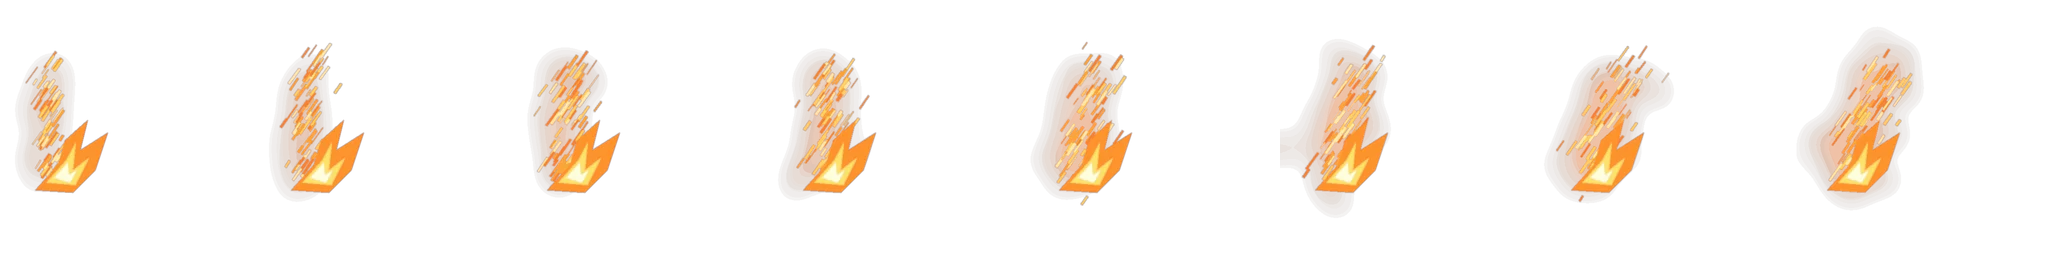
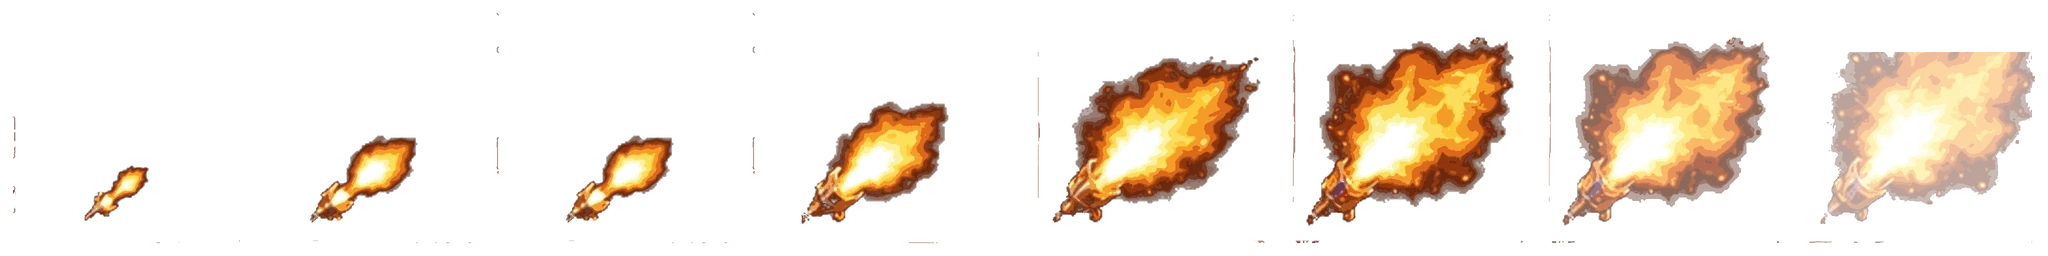
R67h: ملفات المدفع النهائية من المصمم (خلفية شفافة حقيقية) بدل النسخة المؤقتة؛ تنظيف حدود الشيتات، اللهب والانفجار والألعاب النارية بدمج screen، وضبط مكان الصورة في الإطار
Claude-Session: https://claude.ai/code/session_013Dw5YXk6gdhBXsie6KboY7

diff --git a/public/sw.js b/public/sw.js
@@ -1,10 +1,10 @@
 /* لعبك — عامل الخدمة: تحديث الشبكة أولاً، واللعب الجماعي يحتاج اتصال. */
 const CACHE_PREFIX = 'la3bak-shell-';
-const VER = CACHE_PREFIX + 'r67d';
+const VER = CACHE_PREFIX + 'r67h';
 const LEGACY_SHELL_CACHES = ['la3bak-rank-vip-1'];
 // Deduplicate exact URLs; keep the existing network-first/offline policy.
 // The unused legacy codewords image is not precached; the shipped R45 cover stays.
-const SHELL = [...new Set(['/root-navigation-r50.js?v=back-nav-r51', '/preview/assets/game-minaboli-3d-r49.webp', '/preview/assets/game-codewords-3d-r45.webp', '/emerald-r44.css?v=r58q', '/unified/emerald-room-r44.css?v=r58p', '/unified/gift-compact-r38.css?v=r58p','/unified/room-owner-start-r33.css?v=r58q','/social-room-tools-r33.css?v=r58p','/community-access-r37.js','/unified/notifications.js?v=r66a','/social-room-tools-r33.js?v=r58p','/room-start-r33.js','/social-gift-context-r33.js','/gift3d-variants-r33.js','/unified/pk-reference-r32.css?v=r58p','/social-challenge.js?v=r57','/social-challenge.css?v=r58p','/room-photo-r31.js?v=room-photo-r31','/unified/room-photo-r31.css?v=r58q','/social-directory-r30.js?v=r63a','/unified/room-directory-r30.css?v=r58q','/unified/room-style-r27.css?v=r58p', '/unified/reference-room-r28.css?v=r58q', '/unified/reference-panels-r28.css?v=r58q', '/unified/reference-gifts-r28.css?v=r58q', '/unified/gift-colors-r29.css?v=r58p', '/unified/room-dock-r29.css?v=r58p', '/cannon3d-r29.css?v=r58p', '/cannon3d-r29.js?v=gifts-cannon-r29','/social-room-controls-r27.js?v=r58s','/gift3d-r27.js?v=emerald-r44','/gift3d-r27.css','/gift-assets-r27.js?v=catalog-r35','/social-gift-runtime-r27.js?v=r63a','/social-cannon-ui-r27.js?v=r63b','/social-challenge.js?v=r57','/social-challenge.css?v=r58p','/store-r23.css?v=r58p','/frame-art-r23.css?v=r58i2','/entrancefx-r23.js?v=r58r','/entrancefx-r23.css?v=emerald-r44','/preview/profile-head-r20.css?v=r58p', '/preview/profile-head-r22.css?v=r58p','/preview/profile-list-r19.css?v=r58p','/unified/room-composer-r18.css?v=r58p','/unified/global-search.js?v=global-search-r17','/unified/global-search.css?v=r58p','/unified/search-icon.js?v=global-search-r17','/preview/profile-frame-r4.css?v=r58p', '/brand-royal-r16.css?v=r58p', '/preview/profile-host-r15.css?v=emerald-r44','/unified/ranks.js?v=r66b', '/unified/ranks.css?v=r58p', '/unified/vip.js?v=r66b', '/unified/vip.css?v=r58p', '/unified/vip-noble-r52.js?v=r66b', '/unified/vip-noble-r52.css?v=r58q', '/profile-social-r53.js?v=r63a', '/preview/profile-r53.css?v=r58q', '/preview/rank-overview.js?v=r66b', '/preview/rank-overview.css?v=r58p', '/preview/rank-current.css?v=r58p', '/unified/backgrounds.js?v=r63b', '/unified/backgrounds.css?v=r58q', '/background-art.js?v=r58p', '/', '/preview.html?v=release-r14', '/app.css?v=r58q', '/reference-store.css?v=r58p', '/unified/home.css?v=r58p', '/unified/home.js?v=r63a', '/unified/unified.css?v=r60d', '/unified/shell.js?v=r67c', '/preview/profile.css?v=r58p', '/preview/profile-integration.css?v=r58p', '/preview/profile-match.css?v=r58q', '/preview/page-shell.css?v=r58p', '/preview/shop-modern.css?v=r58p', '/preview/app.js?v=r67c', '/preview/profile.js?v=r66b', '/preview/assets/profile/ui-icons-inline.js?v=r58p', '/preview/assets/profile/rank-display.js', '/pwa.js?v=r62e', '/boot.js?v=r64a', '/theme.js?v=r64a', '/theme.js?v=r64a', '/royal-gameplay.css?v=r58p', '/royal-navigation.css?v=r58p', '/auth.js', '/manifest.webmanifest', '/favicon.svg', '/apple-touch-icon.png', '/game-availability.js?v=games-royal-1', '/games.js?v=r59d',   '/offline.js?v=games-royal-1', '/unified/games.js?v=r57', '/unified/social.js?v=r67c', '/rank-perks-r56.js?v=r58i', '/rank-perks-r56.css?v=r56', '/unified/social-r55.css?v=r58q', '/unified/social.css?v=r58p', '/social-voice.js?v=release-r14', '/social-assets/majlis-atmosphere.webp', '/admin.js?v=r66a', '/admin-bulk-grants.js?v=r66a', '/admin-bulk-grants.css?v=r58p', '/preview/rank-current.css?v=r58p', '/preview/rank-overview.js?v=r66b', '/unified/payments.js?v=r63a', '/account-tools.js?v=ui-correction-r3', '/account-verification.css?v=r58q', '/unified/social-room-r7.css?v=r58p', '/social-gifts.js?v=r63a', '/social-assets/voice-night-r7.jpg', '/social-assets/friends-room-cover.webp', '/unified/wallet.js?v=r63b', '/shop.js?v=r63b', '/unified/store.js?v=r63b', '/unified/backgrounds.js?v=r63b', '/unified/payments.js?v=r63a', '/unified/payments.css?v=r58p', '/unified/social-settings-r12.css?v=r58p', '/social-benefits.js?v=r63a', '/unified/social-benefits-r12.css?v=r58q', '/gifts.js?v=r63a', '/gift-reward-ui.js?v=r63a', '/unified/gift-rewards-r13.css?v=r58p', '/giftart.js?v=release-r14', '/unified/game-voice-r9.css?v=r58p'])];
+const SHELL = [...new Set(['/root-navigation-r50.js?v=back-nav-r51', '/preview/assets/game-minaboli-3d-r49.webp', '/preview/assets/game-codewords-3d-r45.webp', '/emerald-r44.css?v=r58q', '/unified/emerald-room-r44.css?v=r58p', '/unified/gift-compact-r38.css?v=r58p','/unified/room-owner-start-r33.css?v=r58q','/social-room-tools-r33.css?v=r58p','/community-access-r37.js','/unified/notifications.js?v=r66a','/social-room-tools-r33.js?v=r58p','/room-start-r33.js','/social-gift-context-r33.js','/gift3d-variants-r33.js','/unified/pk-reference-r32.css?v=r58p','/social-challenge.js?v=r57','/social-challenge.css?v=r58p','/room-photo-r31.js?v=room-photo-r31','/unified/room-photo-r31.css?v=r58q','/social-directory-r30.js?v=r63a','/unified/room-directory-r30.css?v=r58q','/unified/room-style-r27.css?v=r58p', '/unified/reference-room-r28.css?v=r58q', '/unified/reference-panels-r28.css?v=r58q', '/unified/reference-gifts-r28.css?v=r58q', '/unified/gift-colors-r29.css?v=r58p', '/unified/room-dock-r29.css?v=r58p', '/cannon3d-r29.css?v=r58p', '/cannon3d-r29.js?v=gifts-cannon-r29','/social-room-controls-r27.js?v=r58s','/gift3d-r27.js?v=emerald-r44','/gift3d-r27.css','/gift-assets-r27.js?v=catalog-r35','/social-gift-runtime-r27.js?v=r63a','/social-cannon-ui-r27.js?v=r63b','/social-challenge.js?v=r57','/social-challenge.css?v=r58p','/store-r23.css?v=r58p','/frame-art-r23.css?v=r58i2','/entrancefx-r23.js?v=r58r','/entrancefx-r23.css?v=emerald-r44','/preview/profile-head-r20.css?v=r58p', '/preview/profile-head-r22.css?v=r58p','/preview/profile-list-r19.css?v=r58p','/unified/room-composer-r18.css?v=r58p','/unified/global-search.js?v=global-search-r17','/unified/global-search.css?v=r58p','/unified/search-icon.js?v=global-search-r17','/preview/profile-frame-r4.css?v=r58p', '/brand-royal-r16.css?v=r58p', '/preview/profile-host-r15.css?v=emerald-r44','/unified/ranks.js?v=r66b', '/unified/ranks.css?v=r58p', '/unified/vip.js?v=r66b', '/unified/vip.css?v=r58p', '/unified/vip-noble-r52.js?v=r66b', '/unified/vip-noble-r52.css?v=r58q', '/profile-social-r53.js?v=r63a', '/preview/profile-r53.css?v=r58q', '/preview/rank-overview.js?v=r66b', '/preview/rank-overview.css?v=r58p', '/preview/rank-current.css?v=r58p', '/unified/backgrounds.js?v=r63b', '/unified/backgrounds.css?v=r58q', '/background-art.js?v=r58p', '/', '/preview.html?v=release-r14', '/app.css?v=r58q', '/reference-store.css?v=r58p', '/unified/home.css?v=r58p', '/unified/home.js?v=r63a', '/unified/unified.css?v=r60d', '/unified/shell.js?v=r67g', '/preview/profile.css?v=r58p', '/preview/profile-integration.css?v=r58p', '/preview/profile-match.css?v=r58q', '/preview/page-shell.css?v=r58p', '/preview/shop-modern.css?v=r58p', '/preview/app.js?v=r67g', '/preview/profile.js?v=r66b', '/preview/assets/profile/ui-icons-inline.js?v=r58p', '/preview/assets/profile/rank-display.js', '/pwa.js?v=r62e', '/boot.js?v=r64a', '/theme.js?v=r64a', '/theme.js?v=r64a', '/royal-gameplay.css?v=r58p', '/royal-navigation.css?v=r58p', '/auth.js', '/manifest.webmanifest', '/favicon.svg', '/apple-touch-icon.png', '/game-availability.js?v=games-royal-1', '/games.js?v=r59d',   '/offline.js?v=games-royal-1', '/unified/games.js?v=r57', '/unified/social.js?v=r67g', '/rank-perks-r56.js?v=r58i', '/rank-perks-r56.css?v=r56', '/unified/social-r55.css?v=r58q', '/unified/social.css?v=r58p', '/social-voice.js?v=release-r14', '/social-assets/majlis-atmosphere.webp', '/admin.js?v=r66a', '/admin-bulk-grants.js?v=r66a', '/admin-bulk-grants.css?v=r58p', '/preview/rank-current.css?v=r58p', '/preview/rank-overview.js?v=r66b', '/unified/payments.js?v=r63a', '/account-tools.js?v=ui-correction-r3', '/account-verification.css?v=r58q', '/unified/social-room-r7.css?v=r58p', '/social-gifts.js?v=r63a', '/social-assets/voice-night-r7.jpg', '/social-assets/friends-room-cover.webp', '/unified/wallet.js?v=r63b', '/shop.js?v=r63b', '/unified/store.js?v=r63b', '/unified/backgrounds.js?v=r63b', '/unified/payments.js?v=r63a', '/unified/payments.css?v=r58p', '/unified/social-settings-r12.css?v=r58p', '/social-benefits.js?v=r63a', '/unified/social-benefits-r12.css?v=r58q', '/gifts.js?v=r63a', '/gift-reward-ui.js?v=r63a', '/unified/gift-rewards-r13.css?v=r58p', '/giftart.js?v=release-r14', '/unified/game-voice-r9.css?v=r58p'])];
 self.addEventListener('install', (e) => {
   e.waitUntil(caches.open(VER).then((c) => Promise.all(SHELL.map((u) => c.add(new Request(u, { cache: 'reload' })).catch(() => {})))).then(() => self.skipWaiting()));
 });

diff --git a/public/room-r67.css b/public/room-r67.css
@@ -186,7 +186,7 @@
 .c67b-top{position:absolute;top:calc(3% + env(safe-area-inset-top,0px));left:0;right:0;display:grid;justify-items:center;gap:2px;transition:opacity .4s;}
 .c67b-frame{position:relative;display:block;width:150px;height:150px;}
 .c67b-frame>img{position:absolute;inset:0;width:100%;height:100%;object-fit:contain;filter:drop-shadow(0 0 14px #E0A526aa);animation:c67Bob 2s ease-in-out infinite;}
-.c67b-face{position:absolute;left:29%;top:30%;width:42%;height:42%;border-radius:50%;overflow:hidden;display:grid;place-items:center;background:#2A0E45;color:#FFD66B;font-size:30px;animation:c67Bob 2s ease-in-out infinite;}
+.c67b-face{position:absolute;left:26.8%;top:30.6%;width:46.5%;height:46.5%;border-radius:50%;overflow:hidden;display:grid;place-items:center;background:#2A0E45;color:#FFD66B;font-size:30px;animation:c67Bob 2s ease-in-out infinite;}
 .c67b-face>*{width:100%;height:100%;display:grid;place-items:center;}
 .c67b-face img{width:100%;height:100%;object-fit:cover;}
 .c67b-top em{font-style:normal;font-weight:900;font-size:17px;color:#fff;text-shadow:0 2px 8px #000,0 0 12px #E0A526;}
@@ -196,14 +196,14 @@
 @keyframes c67bPop{0%{transform:translate(-50%,-130%) scale(1.6);opacity:0}60%{transform:translate(-50%,-46%) scale(.94);opacity:1}100%{transform:translate(-50%,-50%) scale(1)}}
 .c67b-cannon{position:absolute;left:50%;bottom:calc(3% + env(safe-area-inset-bottom,0px));width:min(62vw,280px);transform:translateX(-62%);}
 .c67b-cannon>img{display:block;width:100%;height:auto;filter:drop-shadow(0 0 22px #E0A52688);}
-.c67b-fire{position:absolute;right:-62%;top:-60%;width:96%;aspect-ratio:1;background:url(/assets/art67/cannon/fire-sheet.webp?v=r67b) 0 0/800% 100% no-repeat;opacity:0;pointer-events:none;}
+.c67b-fire{position:absolute;right:-46%;top:-58%;width:82%;mix-blend-mode:screen;aspect-ratio:1;background:url(/assets/art67/cannon/fire-sheet.webp?v=r67g) 0 0/800% 100% no-repeat;opacity:0;pointer-events:none;}
 .c67b-fire.is-shoot{animation:c67bSheet .6s steps(8,jump-none) forwards;}
 .c67b-cannon:has(.is-shoot)>img{animation:c67bKick .3s ease-out;}
 @keyframes c67bKick{40%{transform:translate(-8px,8px) rotate(-3deg)}}
 @keyframes c67bSheet{0%{opacity:1;background-position-x:0%}99%{opacity:1}100%{opacity:0;background-position-x:100%}}
 .c67b-fws{position:absolute;inset:0;pointer-events:none;}
-.c67b-fw{position:absolute;left:var(--x);top:var(--y);width:calc(170px * var(--s));aspect-ratio:1;margin:calc(-85px * var(--s));background:0 0/800% 100% no-repeat;opacity:0;animation:c67bSheet 1.1s steps(8,jump-none) forwards;}
-.c67b-boom{position:absolute;top:44%;left:50%;width:min(130vw,620px);aspect-ratio:1;transform:translate(-50%,-50%);background:url(/assets/art67/cannon/boom-sheet.webp?v=r67b) 0 0/800% 100% no-repeat;opacity:0;pointer-events:none;}
+.c67b-fw{mix-blend-mode:screen;position:absolute;left:var(--x);top:var(--y);width:calc(170px * var(--s));aspect-ratio:1;margin:calc(-85px * var(--s));background:0 0/800% 100% no-repeat;opacity:0;animation:c67bSheet 1.1s steps(8,jump-none) forwards;}
+.c67b-boom{clip-path:inset(4%);mix-blend-mode:screen;position:absolute;top:44%;left:50%;width:min(130vw,620px);aspect-ratio:1;transform:translate(-50%,-50%);background:url(/assets/art67/cannon/boom-sheet.webp?v=r67g) 0 0/800% 100% no-repeat;opacity:0;pointer-events:none;}
 .c67b.is-boom .c67b-boom{animation:c67bSheet 1.2s steps(8,jump-none) forwards;}
 .c67b .c59-flash,.c67b .c59-spark{top:44%;}
 .c67b.is-boom .c67b-num{opacity:0;transform:translate(-50%,-50%) scale(1.6);transition:opacity .3s,transform .3s;}
@@ -213,9 +213,9 @@
 .c67b-card{isolation:isolate;width:min(330px,88vw);padding:0 22px 26px;background:none;border:0;box-shadow:none;aspect-ratio:auto;overflow:visible;}
 .c67b-cardbg{position:absolute;inset:0;width:100%;height:100%;object-fit:fill;z-index:-1;filter:drop-shadow(0 0 30px #A63DFF99);}
 .c67b-card .c67-x{top:16%;left:14%;}
-.c67b-prize{position:relative;display:block;width:70%;margin:34% auto 0;}
+.c67b-prize{position:relative;display:block;width:62%;margin:40% auto 0;}
 .c67b-base{display:block;width:100%;height:auto;filter:drop-shadow(0 -10px 22px #ffb3ff99);}
-.c67b-prizeart{position:absolute;left:50%;bottom:30%;width:52%;transform:translateX(-50%);animation:c67Bob 2.2s ease-in-out infinite;filter:drop-shadow(0 6px 10px #000a);}
+.c67b-prizeart{position:absolute;left:50%;bottom:26%;width:46%;transform:translateX(-50%);animation:c67Bob 2.2s ease-in-out infinite;filter:drop-shadow(0 6px 10px #000a);}
 .c67b-card h3{margin:4px 0 0;font-size:24px;color:#FFD66B;text-shadow:0 2px 0 #4a1d05,0 0 14px #E0A526;}
 .c67b-card .c67-prize{color:#F5E9FF;padding:0 8%;font-size:13.5px;}
 .c67b-card .c67-ok{width:86%;margin-bottom:4%;}

diff --git a/public/index.html b/public/index.html
@@ -25,8 +25,8 @@
 <link rel="preconnect" href="https://fonts.googleapis.com">
 <link rel="preconnect" href="https://fonts.gstatic.com" crossorigin>
 <!-- Exact URLs used by app.js/shell.js: modulepreload warms, never forks module state. -->
-<link rel="modulepreload" href="/preview/app.js?v=r67c">
-<link rel="modulepreload" href="/unified/shell.js?v=r67c">
+<link rel="modulepreload" href="/preview/app.js?v=r67g">
+<link rel="modulepreload" href="/unified/shell.js?v=r67g">
 <link rel="modulepreload" href="/unified/home.js?v=r63a">
 <link rel="modulepreload" href="/preview/profile.js?v=r66b">
 <link rel="stylesheet" href="/app.css?v=r58q">
@@ -87,7 +87,7 @@
 <link rel="stylesheet" href="/room-upgrade-r47.css?v=r58p">
 <link rel="stylesheet" href="/auction-r47.css?v=r58p">
 <link rel="stylesheet" href="/family-r47.css?v=build-all-r47">
-<link rel="stylesheet" href="/room-r67.css?v=r67d">
+<link rel="stylesheet" href="/room-r67.css?v=r67h">
 <link rel="stylesheet" href="/badge-r64.css?v=r66a">
 </head>
 <body class="reference-ui">
@@ -140,6 +140,6 @@
 <script type="module" src="/friends-live-r58.js?v=r58u"></script>
 <script type="module" src="/cp-r58.js?v=r67a"></script>
 <script type="module" src="/tribe-r58.js?v=r63a"></script>
-<script type="module" src="/preview/app.js?v=r67c"></script>
+<script type="module" src="/preview/app.js?v=r67g"></script>
 </body>
 </html>

diff --git a/public/preview.html b/public/preview.html
@@ -25,8 +25,8 @@
 <link rel="preconnect" href="https://fonts.googleapis.com">
 <link rel="preconnect" href="https://fonts.gstatic.com" crossorigin>
 <!-- Exact URLs used by app.js/shell.js: modulepreload warms, never forks module state. -->
-<link rel="modulepreload" href="/preview/app.js?v=r67c">
-<link rel="modulepreload" href="/unified/shell.js?v=r67c">
+<link rel="modulepreload" href="/preview/app.js?v=r67g">
+<link rel="modulepreload" href="/unified/shell.js?v=r67g">
 <link rel="modulepreload" href="/unified/home.js?v=r63a">
 <link rel="modulepreload" href="/preview/profile.js?v=r66b">
 <link rel="stylesheet" href="/app.css?v=r58q">
@@ -77,7 +77,7 @@
 <link rel="stylesheet" href="/room-r58.css?v=r66a">
 <link rel="stylesheet" href="/dark-r62.css?v=r64a">
 <link rel="stylesheet" href="/art58-r58l.css?v=r59b">
-<link rel="stylesheet" href="/room-r67.css?v=r67d">
+<link rel="stylesheet" href="/room-r67.css?v=r67h">
 <link rel="stylesheet" href="/badge-r64.css?v=r66a">
 </head>
 <body class="reference-ui">
@@ -130,6 +130,6 @@
 <script type="module" src="/friends-live-r58.js?v=r58u"></script>
 <script type="module" src="/cp-r58.js?v=r67a"></script>
 <script type="module" src="/tribe-r58.js?v=r63a"></script>
-<script type="module" src="/preview/app.js?v=r67c"></script>
+<script type="module" src="/preview/app.js?v=r67g"></script>
 </body>
 </html>

diff --git a/public/unified/shell.js b/public/unified/shell.js
@@ -15,7 +15,7 @@ import * as store from './store.js?v=r63b';
 import * as payments from './payments.js?v=r63a';
 import * as ranks from './ranks.js?v=r66b';
 import * as vip from './vip.js?v=r66b';
-import * as social from './social.js?v=r67c';
+import * as social from './social.js?v=r67g';
 const modules={home,rooms,wallet,notifications,messages,friends,ranking,games,settings,store,payments,ranks,vip,social};
 export const routes=Object.freeze(['home','rooms','social-rooms','social-room','wallet','notifications','notifications-internal','messages','friends','leaderboard','games','settings','shop','payments','ranks','vip','game','hub','room','join','city','lobby','play','offline','daily','challenge','events','tournaments','support','contact','auction','family','missions','visitors','invite','verification','rank-rewards','about','privacy','terms','agreement','privacy-settings','account-info','devices','hidden-posts','community','post','u','not-found']);
 export const hasRoute=name=>routes.includes(name);

diff --git a/public/unified/social.js b/public/unified/social.js
@@ -11,7 +11,7 @@ import {framed as frameOwnedPortrait} from '../shop.js?v=r63b';
 import { createEntranceFX } from '../entrancefx-r23.js?v=r58r';
 import { createSocialChallenge, renderSetup, validateTeams, preserveScorebar } from '../social-challenge.js?v=r57';
 import {attachGiftRuntime,receiveGiftRuntime,clearGiftRuntime,giftRuntimeMetrics,giftArtwork} from '../social-gift-runtime-r27.js?v=r63a';
-import {cannon3Shortcut,cannon3Panel,cannon3Blast} from './room-cannon-r59.js?v=r67c';
+import {cannon3Shortcut,cannon3Panel,cannon3Blast} from './room-cannon-r59.js?v=r67g';
 import {cannonPanel,cannonShortcut,createCannonEffects} from '../social-cannon-ui-r27.js?v=r63b';
 /* Social rooms only. Parent owns routes, session, authenticated api and shell.
  * The live controller outlives DOM mounts. No implicit room/council join on render. */

diff --git a/public/unified/room-cannon-r59.js b/public/unified/room-cannon-r59.js
@@ -39,7 +39,7 @@ export function cannon3Panel(m, view, help = false) {
 }
 const seen = new Set();
 /** R67b الانفجار بالرسومات الجديدة: الدائرة الذهبية تدور، أعلى مساهم بالإطار، أرقام ذهبية 5→1، المدفع يطلق والألعاب النارية، انفجار، وبعدين «تهانينا!». */
-const FX = '/assets/art67/cannon/', FXV = 'r67c';
+const FX = '/assets/art67/cannon/', FXV = 'r67g';
 const fx = (n) => `${FX}${n}.webp?v=${FXV}`;
 const CANNON_ART = ['cannon-green', 'cannon-red', 'cannon-purple'];
 const FW = ['fireworks-gold', 'fireworks-purple', 'fireworks-pink'];

diff --git a/public/preview/app.js b/public/preview/app.js
@@ -1,8 +1,8 @@
 import { createGlobalSearch } from '../unified/global-search.js?v=global-search-r17';
 import * as PR from './profile.js?v=r66b';
-import * as UNIFIED from '../unified/shell.js?v=r67c';
+import * as UNIFIED from '../unified/shell.js?v=r67g';
 import * as REF from '../unified/home.js?v=r63a';
-import * as SOCIAL from '../unified/social.js?v=r67c';
+import * as SOCIAL from '../unified/social.js?v=r67g';
 const { leaveSocial, refreshSocial } = SOCIAL;
 import { isRetiredGame, visibleGameCatalogue, retiredGameHTML } from '../game-availability.js?v=games-royal-1';
 import { createSocialGiftStore } from '../social-gifts.js?v=r63a';
